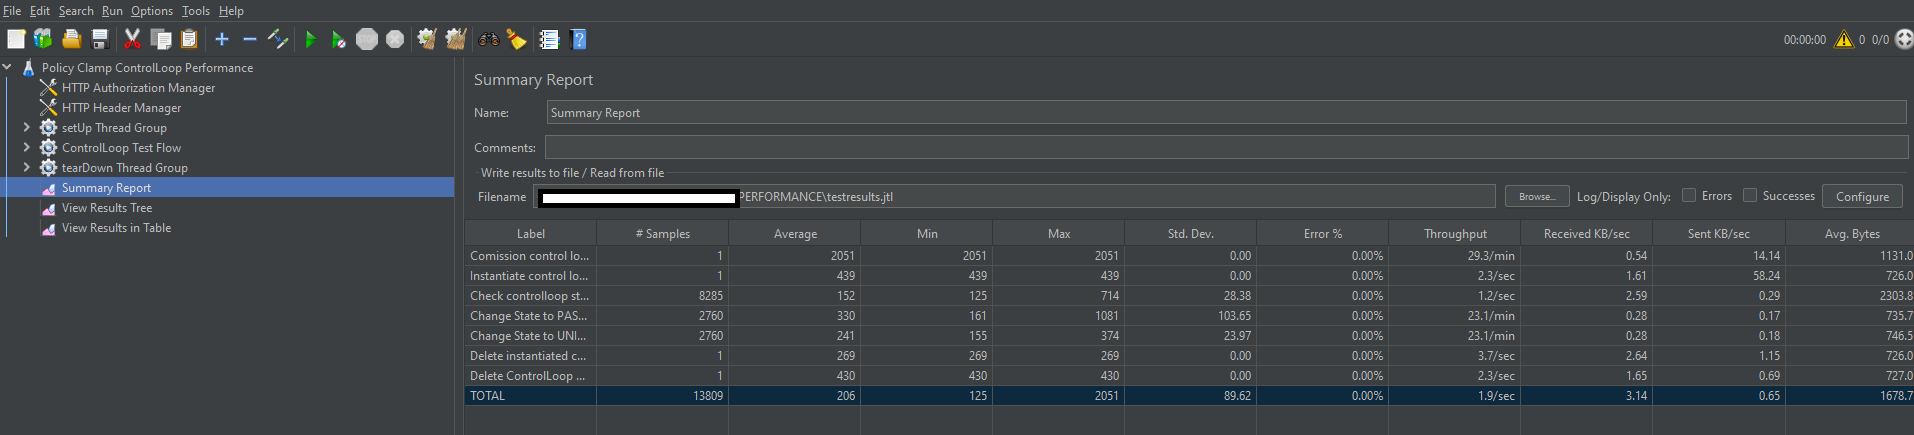
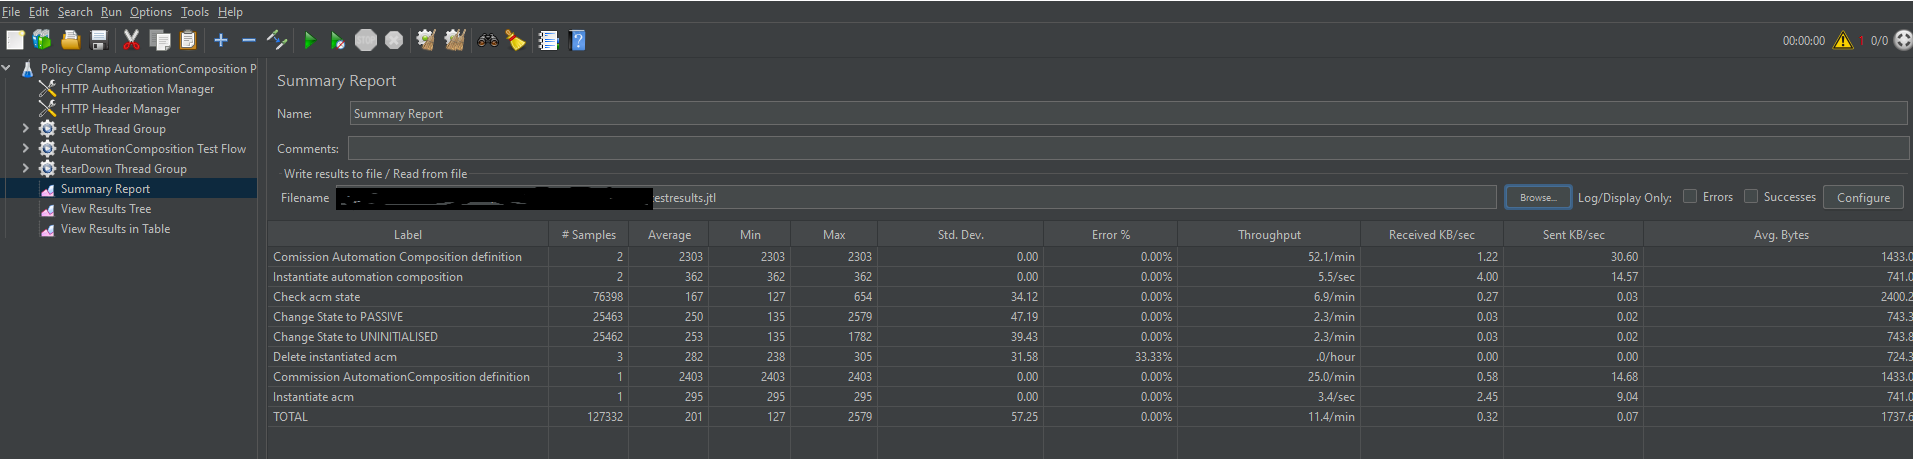
ACM Stability and Performance results
Issue-ID: POLICY-4014

diff --git a/docs/development/devtools/clamp-s3p.rst b/docs/development/devtools/clamp-s3p.rst
@@ -2,29 +2,29 @@
 .. Creative Commons Attribution 4.0 International License.
 .. http://creativecommons.org/licenses/by/4.0
 
-.. _controlloop-s3p-label:
+.. _acm-s3p-label:
 
 .. toctree::
    :maxdepth: 2
 
-Policy Clamp Controlloop
-~~~~~~~~~~~~~~~~~~~~~~~~
+Policy Clamp Automation Composition
+~~~~~~~~~~~~~~~~~~~~~~~~~~~~~~~~~~~
 
 Both the Performance and the Stability tests were executed by performing requests
-against controlloop components installed as docker images in local environment.
+against acm components installed as docker images in local environment.
 
 Setup Details
 +++++++++++++
 
-- Controlloop runtime component docker image is started and running.
+- acm runtime component docker image is started and running.
 - Participant docker images policy-clamp-cl-pf-ppnt, policy-clamp-cl-http-ppnt, policy-clamp-cl-k8s-ppnt are started and running.
 - Dmaap simulator for communication between components.
-- mariadb docker container for policy and controlloop database.
+- mariadb docker container for policy and clampacm database.
 - policy-api for communication between policy participant and policy-framework
 - Both tests were run via jMeter, which was installed on a separate VM.
 
-Stability Test of Controlloop components
-++++++++++++++++++++++++++++++++++++++++
+Stability Test of acm components
+++++++++++++++++++++++++++++++++
 
 Test Plan
 ---------
@@ -32,15 +32,15 @@ The 72 hours stability test ran the following steps sequentially in a single thr
 
 - **Create Policy defaultDomain** - creates an operational policy using policy/api component
 - **Delete Policy sampleDomain** - deletes the operational policy sampleDomain using policy/api component
-- **Commission Contorlloop definition** - commissions the controlloop definition in runtime
-- **Instantiate controlloop** - Instantiate the controlloop towards participants
-- **Check controlloop state** - check the current state of controlloop
-- **Change State to PASSIVE** - change the state of the controlloop to PASSIVE
-- **Check controlloop state** - check the current state of controlloop
-- **Change State to UNINITIALISED** - change the state of the controloop to UNINITIALISED
-- **Check controlloop state** - check the current state of controlloop
-- **Delete instantiated controlloop** - delete the instantiated controlloop from all participants
-- **Delete ControlLoop Definition** - delete the controlloop definition on runtime
+- **Commission Contorlloop definition** - commissions the acm definition in runtime
+- **Instantiate acm** - Instantiate the acm towards participants
+- **Check acm state** - check the current state of acm
+- **Change State to PASSIVE** - change the state of the acm to PASSIVE
+- **Check acm state** - check the current state of acm
+- **Change State to UNINITIALISED** - change the state of the ACM to UNINITIALISED
+- **Check acm state** - check the current state of acm
+- **Delete instantiated acm** - delete the instantiated acm from all participants
+- **Delete ACM Definition** - delete the acm definition on runtime
 
 The following steps can be used to configure the parameters of test plan.
 
@@ -51,8 +51,8 @@ The following steps can be used to configure the parameters of test plan.
 =============================  ========================================================================
  **Name**                      **Description**
 =============================  ========================================================================
- RUNTIME_HOST                  IP Address or host name of controlloop runtime component
- RUNTIME_PORT                  Port number of controlloop runtime components for making REST API calls
+ RUNTIME_HOST                  IP Address or host name of acm runtime component
+ RUNTIME_PORT                  Port number of acm runtime components for making REST API calls
  POLICY_PARTICIPANT_HOST       IP Address or host name of policy participant
  POLICY_PARTICIPANT_HOST_PORT  Port number of policy participant
 =============================  ========================================================================
@@ -74,7 +74,7 @@ Stability test plan was triggered for 72 hours.
 
               .. container:: paragraph
 
-                  The assertions of state changes are not completely taken care of, as the stability is ran with controlloop componenets
+                  The assertions of state changes are not completely taken care of, as the stability is ran with acm componenets
                   alone, and not including complete policy framework deployment, which makes it difficult for actual state changes from
                   PASSIVE to RUNNING etc to happen.
 
@@ -86,7 +86,7 @@ Stability test plan was triggered for 72 hours.
 99992                    100.00 %           0.00 %              192 ms
 =======================  =================  ==================  ==================================
 
-**Controloop component Setup**
+**ACM component Setup**
 
 ================  =========================================================  ===========================================  =========================
 **CONTAINER ID**  **IMAGE**                                                  **PORTS**                                    **NAMES**
@@ -108,11 +108,11 @@ Stability test plan was triggered for 72 hours.
 
 **JMeter Screenshot**
 
-.. image:: clamp-s3p-results/controlloop_stability_jmeter.png
+.. image:: clamp-s3p-results/acm_stability_jmeter.png
 
 **JMeter Screenshot**
 
-.. image:: clamp-s3p-results/controlloop_stability_table.png
+.. image:: clamp-s3p-results/acm_stability_table.png
 
 **Memory and CPU usage**
 
@@ -127,13 +127,13 @@ Memory and CPU usage after test execution:
 .. image:: clamp-s3p-results/Stability_after_stats.png
 
 
-Performance Test of Controlloop components
-++++++++++++++++++++++++++++++++++++++++++
+Performance Test of acm components
+++++++++++++++++++++++++++++++++++
 
 Introduction
 ------------
 
-Performance test of Controlloop components has the goal of testing the min/avg/max processing time and rest call throughput for all the requests with multiple requests at the same time.
+Performance test of acm components has the goal of testing the min/avg/max processing time and rest call throughput for all the requests with multiple requests at the same time.
 
 Setup Details
 -------------
@@ -178,7 +178,7 @@ Test results are shown as below.
 13809                    100 %              0.00 %              206 ms
 =======================  =================  ==================  ==================================
 
-**Controloop component Setup**
+**ACM component Setup**
 
 ================  =========================================================  ===========================================  =========================
 **CONTAINER ID**  **IMAGE**                                                  **PORTS**                                    **NAMES**
